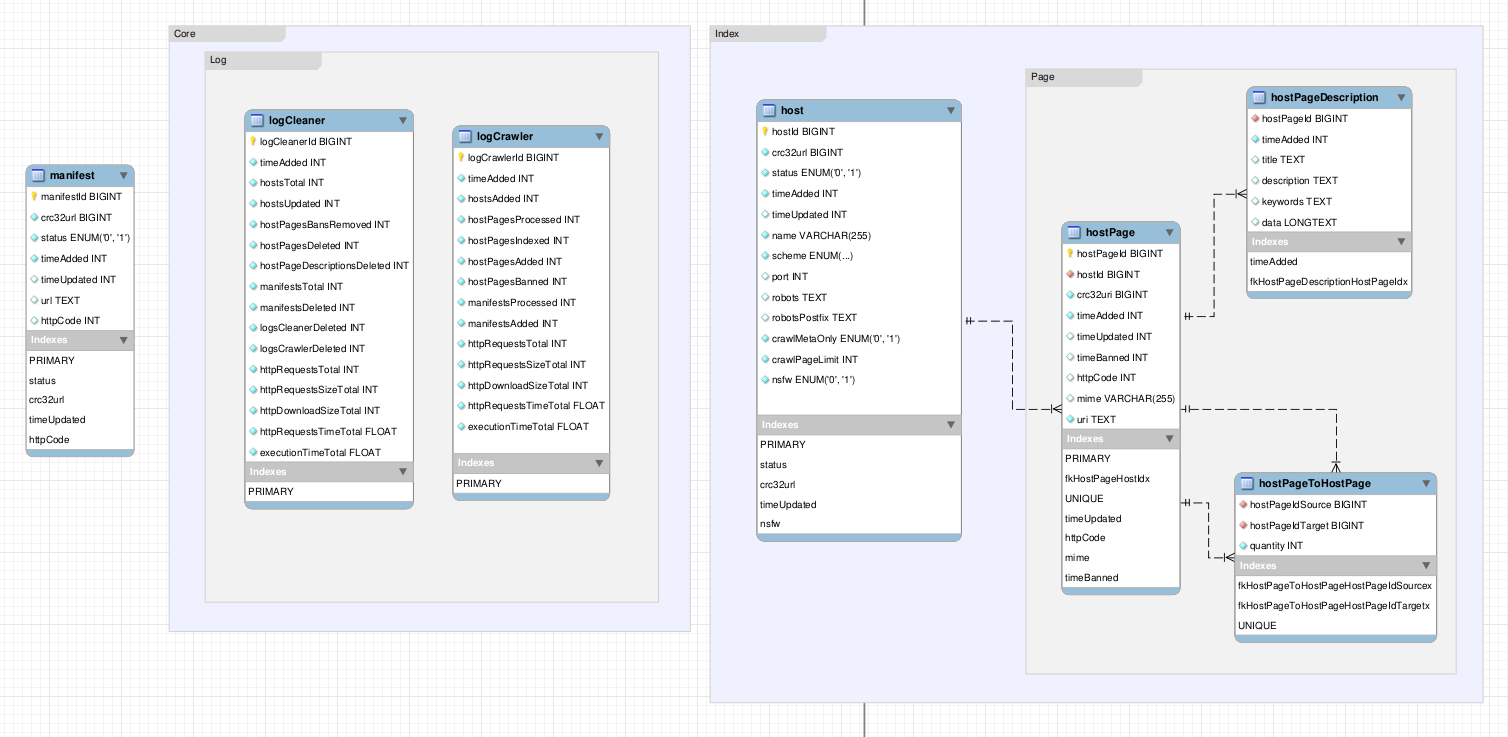
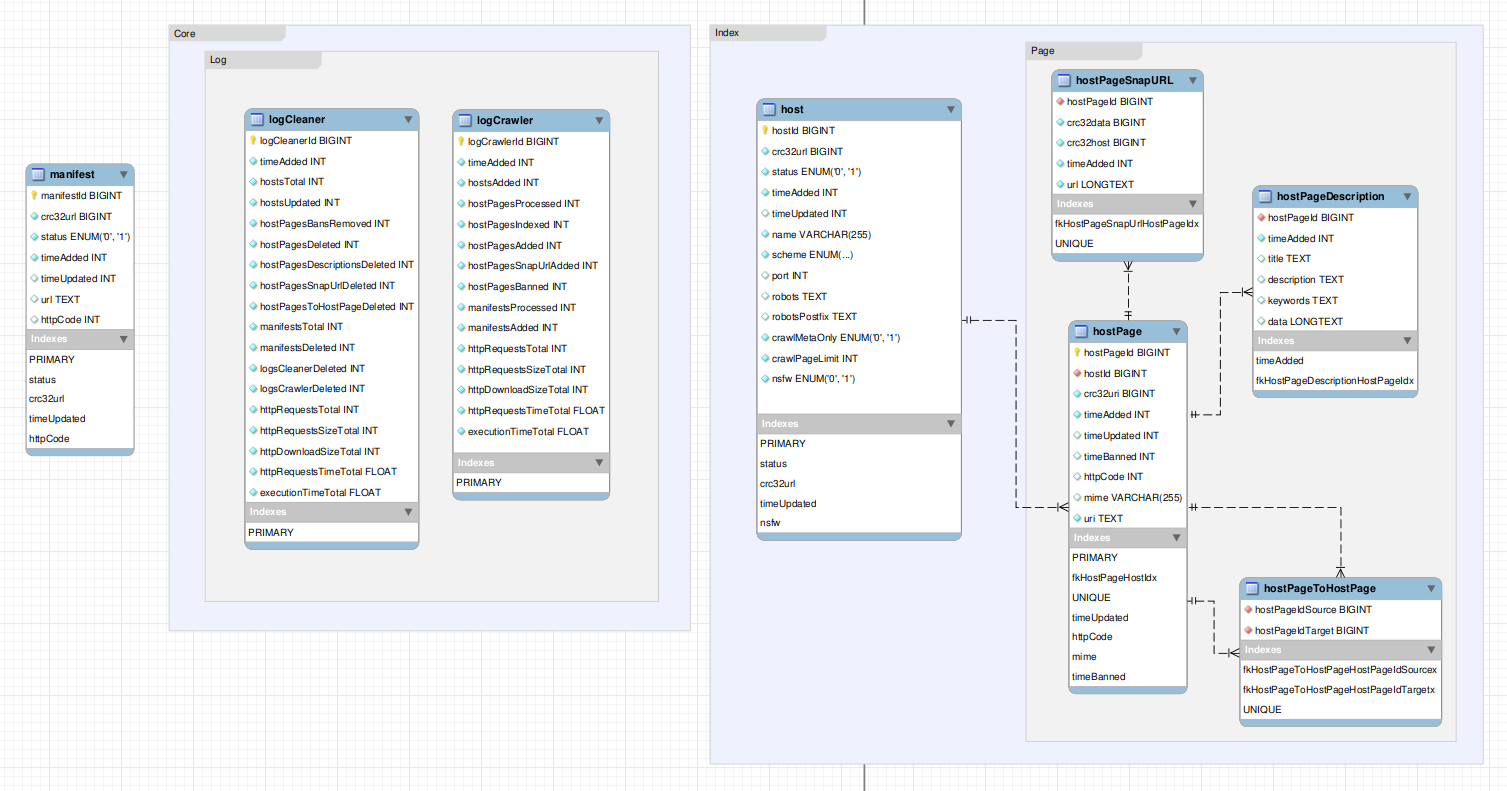
implement local snaps

diff --git a/library/mysql.php b/library/mysql.php
@@ -360,6 +360,63 @@ class MySQL {
     return $query->fetchAll();
   }
 
+  public function addHostPageSnapURL(int $hostPageId,
+                                     int $crc32data,
+                                     int $crc32host,
+                                     string $url,
+                                     int $timeAdded) {
+
+    $query = $this->_db->prepare('INSERT IGNORE INTO `hostPageSnapURL` (`hostPageId`,
+                                                                        `crc32data`,
+                                                                        `crc32host`,
+                                                                        `url`,
+                                                                        `timeAdded`) VALUES (?, ?, ?, ?, ?)');
+
+    $query->execute([$hostPageId,
+                     $crc32data,
+                     $crc32host,
+                     $url,
+                     $timeAdded]);
+
+    return $query->rowCount();
+  }
+
+  public function deleteHostPageSnapURL(int $hostPageId) {
+
+    $query = $this->_db->prepare('DELETE FROM `hostPageSnapURL` WHERE `hostPageId` = ?');
+
+    $query->execute([$hostPageId]);
+
+    return $query->rowCount();
+  }
+
+  public function getTotalHostPageSnapURLs(int $hostPageId) {
+
+    $query = $this->_db->prepare('SELECT COUNT(*) AS `total` FROM `hostPageSnapURL` WHERE `hostPageId` = ?');
+
+    $query->execute([$hostPageId]);
+
+    return $query->fetch()->total;
+  }
+
+  public function getHostPageSnapURLs(int $hostPageId) {
+
+    $query = $this->_db->prepare('SELECT * FROM `hostPageSnapURL` WHERE `hostPageId` = ? ORDER BY `timeAdded` DESC');
+
+    $query->execute([$hostPageId]);
+
+    return $query->fetchAll();
+  }
+
+  public function getHostPageSnapURL(int $hostPageId, int $crc32data, int $crc32host) {
+
+    $query = $this->_db->prepare('SELECT * FROM `hostPageSnapURL` WHERE `hostPageId` = ? AND `hostPageId` = ? AND `crc32host` = ? LIMIT 1');
+
+    $query->execute([$hostPageId, $crc32data, $crc32host]);
+
+    return $query->fetch();
+  }
+
   // Cleaner tools
   public function getCleanerQueue(int $limit, int $timeFrom) {
 
@@ -398,7 +455,9 @@ class MySQL {
                                 int $hostsTotal,
                                 int $hostsUpdated,
                                 int $hostPagesDeleted,
-                                int $hostPageDescriptionsDeleted,
+                                int $hostPagesDescriptionsDeleted,
+                                int $hostPagesSnapUrlDeleted,
+                                int $hostPagesToHostPageDeleted,
                                 int $hostPagesBansRemoved,
                                 int $manifestsTotal,
                                 int $manifestsDeleted,
@@ -414,7 +473,9 @@ class MySQL {
                                                             `hostsTotal`,
                                                             `hostsUpdated`,
                                                             `hostPagesDeleted`,
-                                                            `hostPageDescriptionsDeleted`,
+                                                            `hostPagesDescriptionsDeleted`,
+                                                            `hostPagesSnapUrlDeleted`,
+                                                            `hostPagesToHostPageDeleted`,
                                                             `hostPagesBansRemoved`,
                                                             `manifestsTotal`,
                                                             `manifestsDeleted`,
@@ -424,14 +485,16 @@ class MySQL {
                                                             `httpRequestsSizeTotal`,
                                                             `httpDownloadSizeTotal`,
                                                             `httpRequestsTimeTotal`,
-                                                            `executionTimeTotal`) VALUES (?, ?, ?, ?, ?, ?, ?, ?, ?, ?, ?, ?, ?, ?, ?)');
+                                                            `executionTimeTotal`) VALUES (?, ?, ?, ?, ?, ?, ?, ?, ?, ?, ?, ?, ?, ?, ?, ?, ?)');
 
     $query->execute([
       $timeAdded,
       $hostsTotal,
       $hostsUpdated,
       $hostPagesDeleted,
-      $hostPageDescriptionsDeleted,
+      $hostPagesDescriptionsDeleted,
+      $hostPagesSnapUrlDeleted,
+      $hostPagesToHostPageDeleted,
       $hostPagesBansRemoved,
       $manifestsTotal,
       $manifestsDeleted,
@@ -523,6 +586,7 @@ class MySQL {
                                 int $hostPagesProcessed,
                                 int $hostPagesIndexed,
                                 int $hostPagesAdded,
+                                int $hostPagesSnapUrlAdded,
                                 int $hostPagesBanned,
                                 int $manifestsProcessed,
                                 int $manifestsAdded,
@@ -537,6 +601,7 @@ class MySQL {
                                                             `hostPagesProcessed`,
                                                             `hostPagesIndexed`,
                                                             `hostPagesAdded`,
+                                                            `hostPagesSnapUrlAdded`,
                                                             `hostPagesBanned`,
                                                             `manifestsProcessed`,
                                                             `manifestsAdded`,
@@ -544,7 +609,7 @@ class MySQL {
                                                             `httpRequestsSizeTotal`,
                                                             `httpDownloadSizeTotal`,
                                                             `httpRequestsTimeTotal`,
-                                                            `executionTimeTotal`) VALUES (?, ?, ?, ?, ?, ?, ?, ?, ?, ?, ?, ?, ?)');
+                                                            `executionTimeTotal`) VALUES (?, ?, ?, ?, ?, ?, ?, ?, ?, ?, ?, ?, ?, ?)');
 
     $query->execute([
       $timeAdded,
@@ -552,6 +617,7 @@ class MySQL {
       $hostPagesProcessed,
       $hostPagesIndexed,
       $hostPagesAdded,
+      $hostPagesSnapUrlAdded,
       $hostPagesBanned,
       $manifestsProcessed,
       $manifestsAdded,

diff --git a/crontab/cleaner.php b/crontab/cleaner.php
@@ -30,7 +30,9 @@ $hostsTotal                   = $db->getTotalHosts();
 $manifestsTotal               = $db->getTotalManifests();
 $hostsUpdated                 = 0;
 $hostPagesDeleted             = 0;
-$hostPageDescriptionsDeleted  = 0;
+$hostPagesDescriptionsDeleted = 0;
+$hostPagesSnapUrlDeleted      = 0;
+$hostPagesToHostPageDeleted   = 0;
 $manifestsDeleted             = 0;
 $hostPagesBansRemoved         = 0;
 
@@ -74,8 +76,9 @@ try {
       foreach ((array) $db->getHostPagesByLimit($host->hostId, $totalHostPages - $host->crawlPageLimit) as $hostPage) {
 
         // Delete host page
-        $db->deleteHostPageDescriptions($hostPage->hostPageId);
-        $db->deleteHostPageToHostPage($hostPage->hostPageId);
+        $hostPagesDescriptionsDeleted += $db->deleteHostPageDescriptions($hostPage->hostPageId);
+        $hostPagesSnapUrlDeleted      += $db->deleteHostPageSnapURL($hostPage->hostPageId); // @TODO delete file
+        $hostPagesToHostPageDeleted   += $db->deleteHostPageToHostPage($hostPage->hostPageId);
 
         if ($hostPage->uri != '/') {
             $hostPagesDeleted += $db->deleteHostPage($hostPage->hostPageId);
@@ -91,8 +94,9 @@ try {
       if (!$robots->uriAllowed($hostPage->uri)) {
 
         // Delete host page
-        $db->deleteHostPageDescriptions($hostPage->hostPageId);
-        $db->deleteHostPageToHostPage($hostPage->hostPageId);
+        $hostPagesDescriptionsDeleted += $db->deleteHostPageDescriptions($hostPage->hostPageId);
+        $hostPagesSnapUrlDeleted      += $db->deleteHostPageSnapURL($hostPage->hostPageId); // @TODO delete file
+        $hostPagesToHostPageDeleted   += $db->deleteHostPageToHostPage($hostPage->hostPageId);
 
         if ($hostPage->uri != '/') {
             $hostPagesDeleted += $db->deleteHostPage($hostPage->hostPageId);
@@ -162,7 +166,7 @@ try {
   $hostPagesBansRemoved += $db->resetBannedHostPages(time() - CLEAN_PAGE_BAN_SECONDS_OFFSET);
 
   // Delete page description history
-  $hostPageDescriptionsDeleted += $db->deleteHostPageDescriptionsByTimeAdded(time() - CLEAN_PAGE_DESCRIPTION_OFFSET);
+  $hostPagesDescriptionsDeleted += $db->deleteHostPageDescriptionsByTimeAdded(time() - CLEAN_PAGE_DESCRIPTION_OFFSET);
 
   // Delete deprecated logs
   $logsCleanerDeleted += $db->deleteLogCleaner(time() - CLEAN_LOG_SECONDS_OFFSET);
@@ -187,7 +191,9 @@ if (CLEAN_LOG_ENABLED) {
                       $hostsTotal,
                       $hostsUpdated,
                       $hostPagesDeleted,
-                      $hostPageDescriptionsDeleted,
+                      $hostPagesDescriptionsDeleted,
+                      $hostPagesSnapUrlDeleted,
+                      $hostPagesToHostPageDeleted,
                       $hostPagesBansRemoved,
                       $manifestsTotal,
                       $manifestsDeleted,
@@ -209,7 +215,9 @@ echo 'Manifests total: ' . $manifestsTotal . PHP_EOL;
 echo 'Manifests deleted: ' . $manifestsDeleted . PHP_EOL;
 
 echo 'Host page bans removed: ' . $hostPagesBansRemoved . PHP_EOL;
-echo 'Host page descriptions deleted: ' . $hostPageDescriptionsDeleted . PHP_EOL;
+echo 'Host page descriptions deleted: ' . $hostPagesDescriptionsDeleted . PHP_EOL;
+echo 'Host page snaps deleted: ' . $hostPagesSnapUrlDeleted . PHP_EOL;
+echo 'Host page to host page deleted: ' . $hostPagesToHostPageDeleted . PHP_EOL;
 
 echo 'Cleaner logs deleted: ' . $logsCleanerDeleted . PHP_EOL;
 echo 'Crawler logs deleted: ' . $logsCrawlerDeleted . PHP_EOL;

diff --git a/crontab/crawler.php b/crontab/crawler.php
@@ -39,6 +39,7 @@ $manifestsAdded        = 0;
 $hostPagesAdded        = 0;
 $hostsAdded            = 0;
 $hostPagesBanned       = 0;
+$hostPagesSnapUrlAdded = 0;
 
 // Connect database
 $db = new MySQL(DB_HOST, DB_PORT, DB_NAME, DB_USERNAME, DB_PASSWORD);
@@ -251,11 +252,11 @@ try {
       continue;
     }
 
-    // Parse MIME
+    // Parse index MIME
     $hostPageIsDom  = false;
     $hostPageInMime = false;
 
-    foreach ((array) explode(',', CRAWL_PAGE_MIME) as $mime) {
+    foreach ((array) explode(',', CRAWL_PAGE_MIME_INDEX) as $mime) {
 
       $mime = Filter::mime($mime);
 
@@ -380,6 +381,48 @@ try {
                             time());
 
            $manifestsAdded++;
+      }
+    }
+
+    // Save local snap
+    if (false !== CRAWL_PAGE_MIME_SNAP_LOCAL) {
+
+      foreach ((array) explode(',', CRAWL_PAGE_MIME_SNAP_LOCAL) as $mime) {
+
+        $mime = Filter::mime($mime);
+
+        // MIME type allowed in settings
+        if (false !== stripos(Filter::mime($contentType), $mime)) {
+
+          $crc32data = crc32($content);
+          $crc32host = crc32(''); // WEBSITE_DOMAIN, use empty for this host
+
+          // Create not duplicated data snaps only for each storage host
+          if (!$db->getHostPageSnapURL($queueHostPage->hostPageId, $crc32data, $crc32host)) {
+
+            $time = time();
+
+            @mkdir('../public/storage/snap/hp/' . $queueHostPage->hostPageId, 755, true);
+
+            $zip = new ZipArchive();
+
+            if (true === $zip->open('../public/storage/snap/hp/' . $queueHostPage->hostPageId . '/' . $time . '.zip', ZipArchive::CREATE)) {
+
+              if (true === $zip->addFromString($queueHostPage->hostPageId . '.' . $time . '.' . preg_replace('|^[A-z-]+/([A-z-]+).*|ui', '$1', Filter::mime($contentType)), $content)) {
+
+                $hostPagesSnapUrlAdded += $db->addHostPageSnapURL($queueHostPage->hostPageId,
+                                                                  $crc32data, // do not create duplicated content snaps
+                                                                  $crc32host, // multi host storage with same timestamp / crc32data
+                                                                  '/storage/snap/hp/' . $queueHostPage->hostPageId . '/' . $time . '.zip', // public url
+                                                                  $time);
+
+                $zip->close();
+
+                break;
+              }
+            }
+          }
+        }
       }
     }
 
@@ -700,6 +743,7 @@ if (CRAWL_LOG_ENABLED) {
                      $hostPagesProcessed,
                      $hostPagesIndexed,
                      $hostPagesAdded,
+                     $hostPagesSnapUrlAdded,
                      $hostPagesBanned,
                      $manifestsProcessed,
                      $manifestsAdded,
@@ -716,6 +760,7 @@ echo 'Hosts added: ' . $hostsAdded . PHP_EOL;
 echo 'Pages processed: ' . $hostPagesProcessed . PHP_EOL;
 echo 'Pages indexed: ' . $hostPagesIndexed . PHP_EOL;
 echo 'Pages added: ' . $hostPagesAdded . PHP_EOL;
+echo 'Pages snaps added: ' . $hostPagesSnapUrlAdded . PHP_EOL;
 echo 'Pages banned: ' . $hostPagesBanned . PHP_EOL;
 
 echo 'Manifests processed: ' . $manifestsProcessed . PHP_EOL;

diff --git a/public/explore.php b/public/explore.php
@@ -234,13 +234,30 @@ $placeholder = Filter::plural($totalPages, [sprintf(_('Over %s page or enter the
           <p><?php echo date('c', $hostPage->timeAdded) ?></p>
           <p><?php echo _('Time updated') ?></p>
           <p><?php echo date('c', $hostPage->timeUpdated) ?></p>
-          <?php if ($totalHostPageIdSources = $db->getTotalHostPageIdSourcesByHostPageIdTarget($hp)) { ?>
-            <p>
-              <?php echo Filter::plural($totalHostPageIdSources, [sprintf(_('%s referrer'),  $totalHostPageIdSources),
-                                                                  sprintf(_('%s referrers'), $totalHostPageIdSources),
-                                                                  sprintf(_('%s referrers'), $totalHostPageIdSources),
-                                                                  ]) ?>
-            </p>
+          <?php $totalHostPageSnapUrls = $db->getTotalHostPageSnapURLs($hp); ?>
+          <p>
+            <?php echo Filter::plural($totalHostPageSnapUrls, [sprintf(_('%s snap'),  $totalHostPageSnapUrls),
+                                                                sprintf(_('%s snaps'), $totalHostPageSnapUrls),
+                                                                sprintf(_('%s snaps'), $totalHostPageSnapUrls),
+                                                              ]) ?>
+          </p>
+          <?php if ($totalHostPageSnapUrls) { ?>
+            <?php foreach ($db->getHostPageSnapURLs($hp) as $hostPageSnapUrl) { ?>
+              <p>
+                <a href="<?php echo $hostPageSnapUrl->crc32host === 0 ? WEBSITE_DOMAIN . $hostPageSnapUrl->url : $hostPageSnapUrl->url ?>">
+                  <?php echo date('c', $hostPageSnapUrl->timeAdded) ?>
+                </a>
+              </p>
+            <?php } ?>
+          <?php } ?>
+          <?php $totalHostPageIdSources = $db->getTotalHostPageIdSourcesByHostPageIdTarget($hp); ?>
+          <p>
+            <?php echo Filter::plural($totalHostPageIdSources, [sprintf(_('%s referrer'),  $totalHostPageIdSources),
+                                                                sprintf(_('%s referrers'), $totalHostPageIdSources),
+                                                                sprintf(_('%s referrers'), $totalHostPageIdSources),
+                                                                ]) ?>
+          </p>
+          <?php if ($totalHostPageIdSources) { ?>
             <?php foreach ($db->getHostPageIdSourcesByHostPageIdTarget($hp) as $hostPageIdSource) { ?>
               <?php if ($hostPage = $db->getFoundHostPage($hostPageIdSource->hostPageIdSource)) { ?>
                 <p>

diff --git a/public/api.php b/public/api.php
@@ -1,7 +1,7 @@
 <?php
 
 // Current version
-define('API_VERSION', 0.8);
+define('API_VERSION', 0.9);
 
 // Load system dependencies
 require_once('../config/app.php');
@@ -109,7 +109,8 @@ if (API_ENABLED) {
               'crawlHostDefaultStatus'      => CRAWL_HOST_DEFAULT_STATUS,
               'crawlHostDefaultMetaOnly'    => CRAWL_HOST_DEFAULT_META_ONLY,
               'crawlHostPageSecondsOffset'  => CRAWL_PAGE_SECONDS_OFFSET,
-              'crawlHostPageMime'           => CRAWL_PAGE_MIME,
+              'crawlHostPageMimeIndex'      => CRAWL_PAGE_MIME_INDEX,
+              'crawlHostPageMimeSnapLocal'  => CRAWL_PAGE_MIME_SNAP_LOCAL,
               'cleanHostSecondsOffset'      => CLEAN_HOST_SECONDS_OFFSET,
               'crawlRobotsDefaultRules'     => CRAWL_ROBOTS_DEFAULT_RULES,
               'crawlRobotsPostfixRules'     => CRAWL_ROBOTS_POSTFIX_RULES,

diff --git a/README.md b/README.md
@@ -27,6 +27,7 @@ php-pdo
 php-curl
 php-gd
 php-mbstring
+php-zip
 php-mysql
 sphinxsearch
 ```
@@ -37,7 +38,7 @@ sphinxsearch
 * Deploy the database using [MySQL Workbench](https://www.mysql.com/products/workbench) project presented in the `/database` folder
 * Install [Sphinx Search Server](https://sphinxsearch.com)
 * Configuration examples are placed at `/config` folder
-* Make sure `/storage` folder is writable
+* Make sure `/storage`, `/public/storage` folders writable
 * Set up the `/crontab` scripts by following [example](https://github.com/YGGverse/YGGo/blob/main/config/crontab.txt)
 
 #### JSON API
@@ -147,7 +148,9 @@ GET m=SphinxQL
 * [x] Index explorer
 * [x] Safe images preview
 * [x] Extended search syntax support
-* [ ] Page history snaps
+* [ ] Page content snaps history
+  + [x] Local
+  + [ ] Remote
 
 ##### UI
 
@@ -180,7 +183,9 @@ GET m=SphinxQL
 * [x] MIME Content-type settings
 * [x] Ban non-condition links to prevent extra requests
 * [x] Debug log
-* [x] History snaps
+* [ ] Page content snaps generation
+  + [x] Local
+  + [ ] Remote
 * [ ] Indexing new sites homepage in higher priority
 * [ ] Redirect codes extended processing
 * [ ] Palette image index / filter
